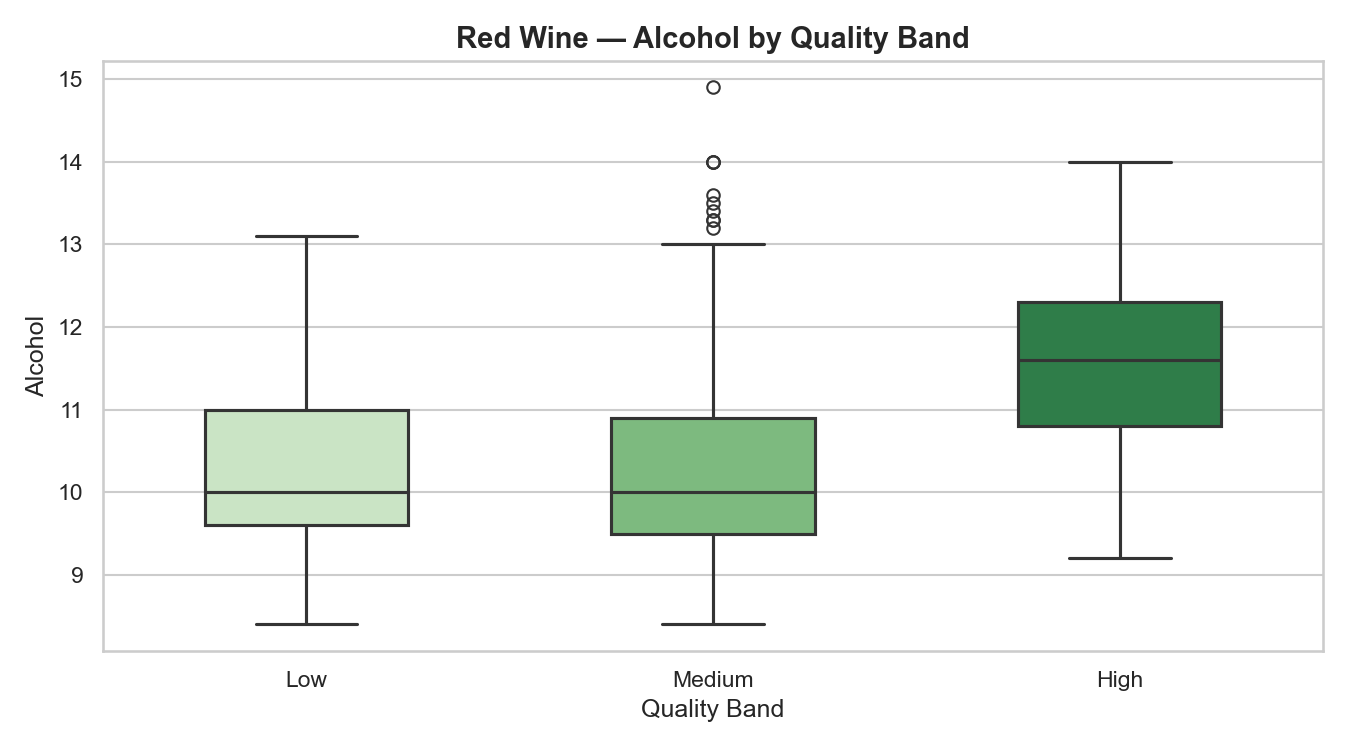
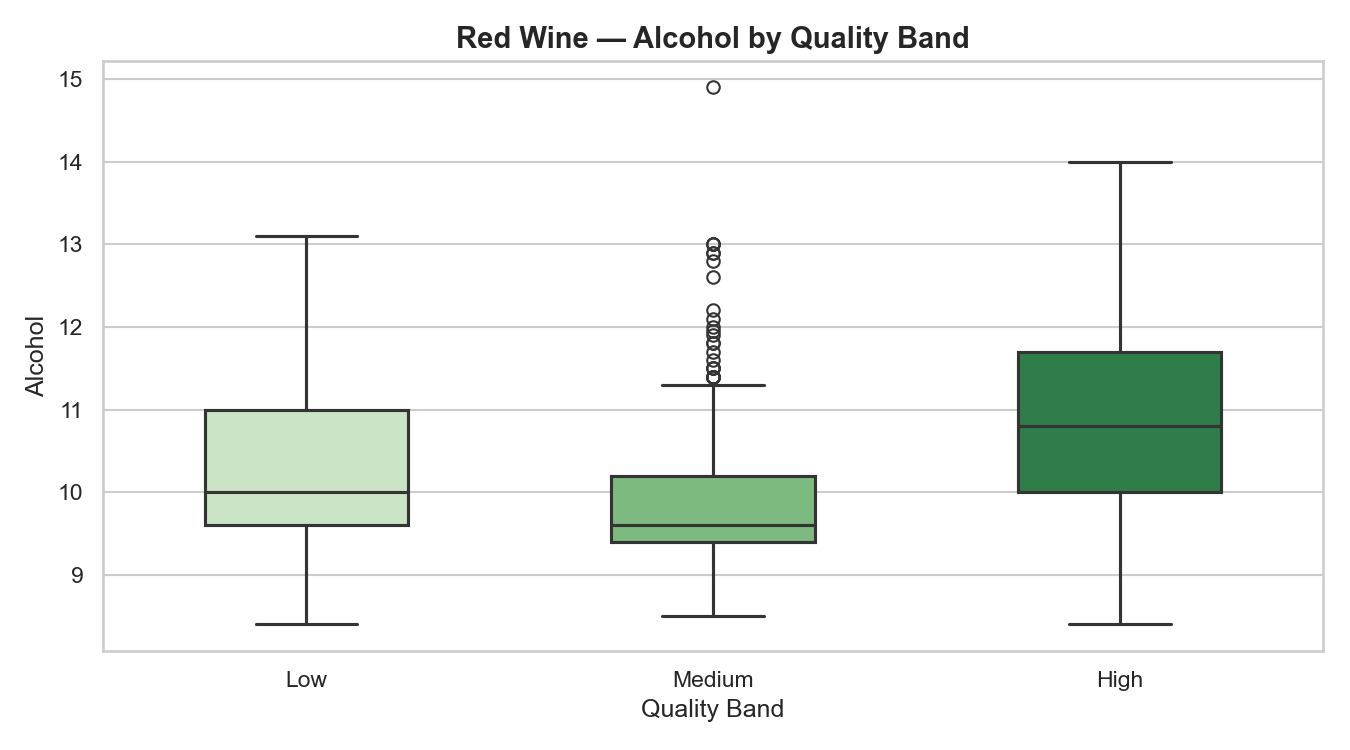
knn update

diff --git a/k-nearest-neighbours/k_nearest_neighbours_v1.py b/k-nearest-neighbours/k_nearest_neighbours_v1.py
@@ -106,7 +106,7 @@ print(df["quality"].value_counts().sort_index())
 def band_quality(score):
     if score <= 4:
         return "Low"
-    elif score <= 6:
+    elif score <= 5:
         return "Medium"
     else:
         return "High"
